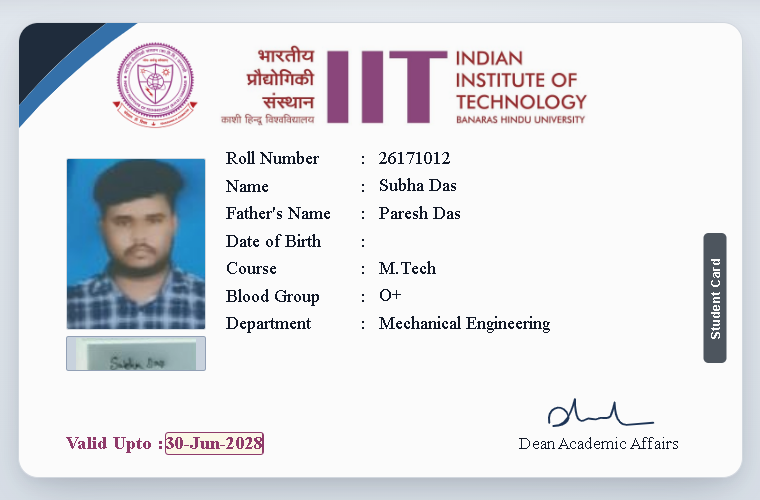
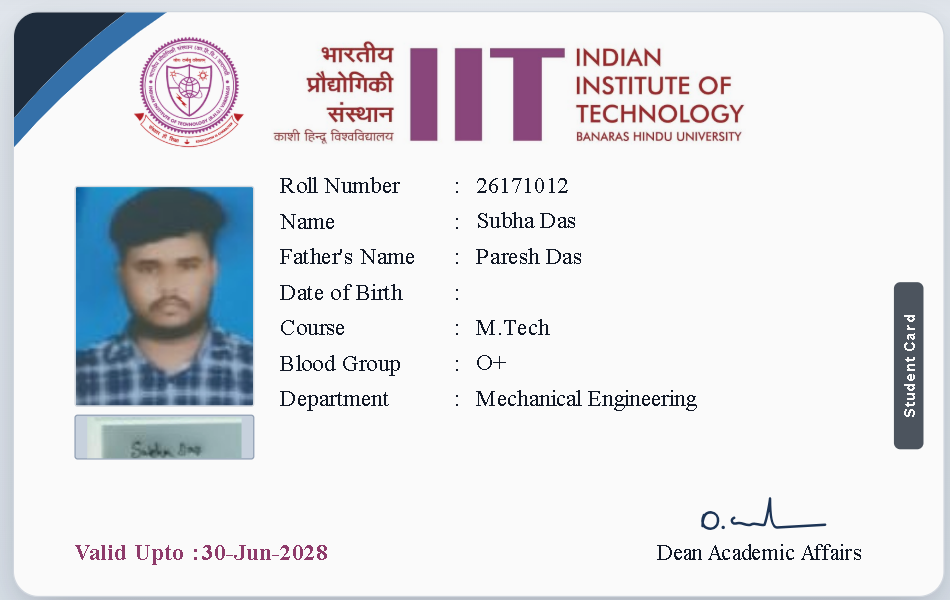
Fix card right width: reduce excess space so border and badge align snug with TECHNOLOGY

diff --git a/iit_bhu_id_card.html b/iit_bhu_id_card.html
@@ -92,7 +92,7 @@ body {
 }
 
 .id-card {
-    width: 580px;
+    width: 485px;
     height: 365px;
     background: #ffffff;
     border-radius: 16px;
@@ -276,7 +276,7 @@ body {
     flex-direction: column;
     justify-content: flex-start;
     padding-top: 0px;
-    padding-right: 30px;
+    padding-right: 24px;
 }
 
 .detail-row {

diff --git a/index.html b/index.html
@@ -92,7 +92,7 @@ body {
 }
 
 .id-card {
-    width: 580px;
+    width: 485px;
     height: 365px;
     background: #ffffff;
     border-radius: 16px;
@@ -276,7 +276,7 @@ body {
     flex-direction: column;
     justify-content: flex-start;
     padding-top: 0px;
-    padding-right: 30px;
+    padding-right: 24px;
 }
 
 .detail-row {
